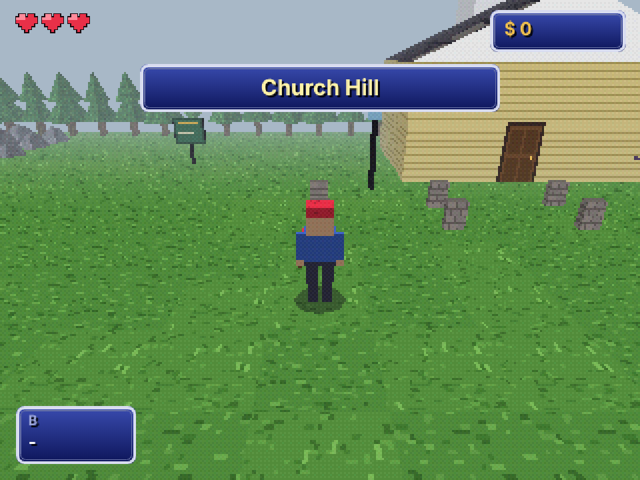
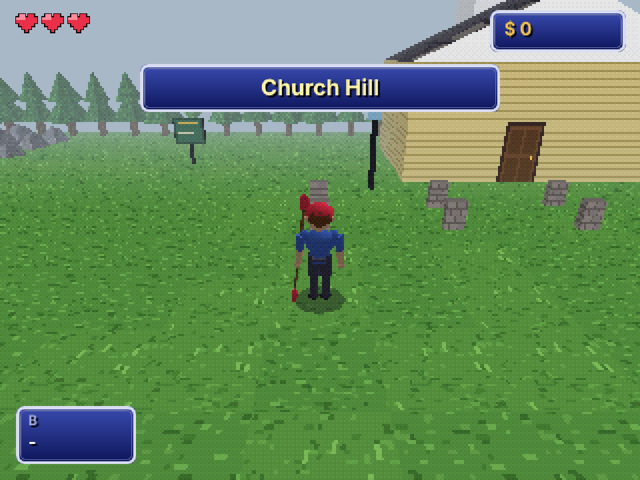
Rounder people: smooth-shaded bodies, round heads with faces, hair, caps and varied builds
Replaces the box people with low-poly lathed shapes: tapered torsos with
rounded shoulders, round heads with painted eyes, ears and a nose, caps with
brims, short, long or bun hair, skirts for some townspeople, sleeves, hands
and shoes. Light is worked out per vertex for smooth PS1-style shading.
The paddle is held upright now.

Claude-Session: https://claude.ai/code/session_01Eoe2yTJzU23vy12F62G5WF

Changed region(s): [[0.4375, 0.4062, 0.5625, 0.625]]

diff --git a/js/models.js b/js/models.js
@@ -4,13 +4,27 @@
 const MODELS={};
 function part(build,pivot,name){const m=new Mesh();build(m);return{mesh:m,pivot:pivot||[0,0,0],name:name||''};}
 function shadeHex(h,f){const c=rgb(h);return[c[0]*f,c[1]*f,c[2]*f];}
-function humanoid(o){const sk=rgb(o.skin||'#e8b890'),sh=rgb(o.shirt||'#3d63c8'),pa=rgb(o.pants||'#3c3c54'),ha=rgb(o.hat||'#6a4020'),hair=rgb(o.hair||'#3a2414');
-  const P=[part(m=>{m.box(-.3,.92,-.17,.3,1.62,.17,'white',sh);m.box(-.31,.92,-.18,.31,1.0,.18,'white',pa);},[0,0,0],'body'),
-    part(m=>{m.box(-.25,0,-.24,.25,.48,.24,{top:'white',side:'white',south:'face'},sk);m.box(-.27,.38,-.27,.27,.56,.26,'hair',o.capless?hair:ha);
-      if(!o.capless)m.box(-.27,.4,.05,.27,.46,.42,'hair',ha);else m.box(-.27,.12,-.27,.27,.4,-.12,'hair',hair);},[0,1.6,0],'head'),
-    part(m=>m.box(-.12,-.88,-.12,.12,0,.12,'white',pa),[-.15,.92,0],'legL'),part(m=>m.box(-.12,-.88,-.12,.12,0,.12,'white',pa),[.15,.92,0],'legR'),
-    part(m=>{m.box(-.09,-.55,-.09,.09,0,.09,'white',sh);m.box(-.08,-.7,-.08,.08,-.55,.08,'white',sk);},[-.39,1.55,0],'armL'),
-    part(m=>{m.box(-.09,-.55,-.09,.09,0,.09,'white',sh);m.box(-.08,-.7,-.08,.08,-.55,.08,'white',sk);if(o.paddle){m.box(-.04,-.75,-.05,.04,-.6,1.2,'wood');m.box(-.03,-.82,1.0,.03,-.52,1.55,'white',rgb(o.gold?'#f2c14e':'#e83048'));}},[.39,1.55,0],'armR')];
+function humanoid(o){const sk=rgb(o.skin||'#e8b890'),sh=rgb(o.shirt||'#3d63c8'),pa=rgb(o.pants||'#3c3c54'),ha=rgb(o.hat||'#6a4020'),hair=rgb(o.hair||'#3a2414'),shoe=rgb(o.shoe||'#2a2228'),N=10,w=o.wide||1;
+  const legCol=o.skirt?sk:pa;
+  const P=[
+    part(m=>{if(o.skirt)m.lathe(0,0,0,[[.5,.36],[.72,.31],[.95,.26],[1.08,.25]],N,'white',pa,w,.78,true);else m.lathe(0,0,0,[[.84,.2],[.97,.25],[1.08,.26]],N,'white',pa,w,.72,true);
+      m.lathe(0,0,0,[[1.0,.24],[1.12,.22],[1.28,.27],[1.44,.3],[1.54,.27],[1.62,.13]],N,'white',sh,w,.7,true);m.sphere(-.29*w,1.49,0,.115,8,5,'white',sh);m.sphere(.29*w,1.49,0,.115,8,5,'white',sh);m.lathe(0,0,0,[[1.56,.075],[1.7,.07]],8,'white',sk);},[0,0,0],'body'),
+    part(m=>{m.sphere(0,.27,0,.25,N,7,'white',sk,1.1);m.quad([-.2,.06,.235],[.2,.06,.235],[.2,.42,.235],[-.2,.42,.235],'eyes');
+      m.sphere(-.25,.25,0,.055,6,3,'white',sk);m.sphere(.25,.25,0,.055,6,3,'white',sk);m.sphere(0,.2,.25,.045,6,3,'white',[sk[0]*.92,sk[1]*.85,sk[2]*.8]);
+      const st=o.style||'short';
+      if(st=='long')m.sphere(0,.1,-.06,.27,N,5,'white',hair,1.45,1.04,.82,.45,1);
+      if(o.capless){m.sphere(0,.29,-.015,.272,N,5,'white',hair,1.1,1.04,1.04,.52,1);if(st=='bun')m.sphere(0,.5,-.2,.11,8,4,'white',hair);}
+      else{m.sphere(0,.29,-.01,.275,N,5,'white',ha,1.08,1.04,1.04,.55,1);m.lathe(0,.36,.08,[[0,.0],[.0,.22],[.05,.22]],N,'white',[ha[0]*.85,ha[1]*.85,ha[2]*.85],1,1.25,true);
+        m.sphere(0,.32,-.13,.2,N,5,'white',hair,1,1.15,.8);}},[0,1.6,0],'head'),
+    part(m=>{m.lathe(0,0,0,[[-.82,.075],[-.5,.095],[-.15,.12],[0,.12]],8,'white',legCol);m.sphere(0,-.84,.05,.11,8,4,'white',shoe,.6,1,1.55,.5,1);},[-.13,.92,0],'legL'),
+    part(m=>{m.lathe(0,0,0,[[-.82,.075],[-.5,.095],[-.15,.12],[0,.12]],8,'white',legCol);m.sphere(0,-.84,.05,.11,8,4,'white',shoe,.6,1,1.55,.5,1);},[.13,.92,0],'legR'),
+    part(m=>{m.lathe(0,0,0,[[-.32,.085],[-.08,.1],[0,.09]],8,'white',sh,1,1,true);m.lathe(0,0,0,[[-.62,.06],[-.32,.072]],8,'white',sk);m.sphere(0,-.67,0,.075,8,4,'white',sk);},[-.37*w,1.5,0],'armL'),
+    part(m=>{m.lathe(0,0,0,[[-.32,.085],[-.08,.1],[0,.09]],8,'white',sh,1,1,true);m.lathe(0,0,0,[[-.62,.06],[-.32,.072]],8,'white',sk);m.sphere(0,-.67,0,.075,8,4,'white',sk);
+      },[.37*w,1.5,0],'armR')];
+  if(o.paddle){const arm=P[5].mesh,c=rgb(o.gold?'#f2c14e':'#e83048');arm.pos.length=0;arm.uv.length=0;arm.col.length=0;
+    arm.lathe(0,0,0,[[-.32,.085],[-.08,.1],[0,.09]],8,'white',sh,1,1,true);arm.lathe(0,0,0,[[-.62,.06],[-.32,.072]],8,'white',sk);arm.sphere(0,-.67,0,.075,8,4,'white',sk);
+    const pd=new Mesh();pd.lathe(0,0,0,[[-.5,.03],[1.35,.03]],6,'wood');pd.sphere(0,1.55,0,.24,8,5,'white',c,1,.5,.2);pd.sphere(0,-.66,0,.15,8,4,'white',c,1,.45,.2);
+    for(let i=0;i<pd.pos.length;i+=3){const y=pd.pos[i+1],z=pd.pos[i+2];pd.pos[i+1]=y*.6-z*.8-.67;pd.pos[i+2]=y*.8+z*.6;}arm.add(pd);}
   return P;}
 function enemyModel(t){const P=[];
   if(t=='rat'){P.push(part(m=>{m.box(-.26,.05,-.42,.26,.42,.36,'white',rgb('#7a7480'));m.box(-.18,.1,.3,.18,.36,.62,{top:'white',side:'white',south:'face'},rgb('#8a8490'));m.box(-.2,.36,.36,-.08,.5,.46,'white',rgb('#e8a0a8'));m.box(.08,.36,.36,.2,.5,.46,'white',rgb('#e8a0a8'));},[0,0,0],'body'),

diff --git a/js/render.js b/js/render.js
@@ -100,18 +100,18 @@ function render(fade){const env=envLook();gl.bindFramebuffer(gl.FRAMEBUFFER,fbo)
   gl.bindVertexArray(quadVAO);gl.drawArrays(gl.TRIANGLES,0,6);gl.bindVertexArray(null);}
 function shadowAt(x,z,s){const sh=getModel('shadow',()=>propModel('shadow'));gl.enable(gl.BLEND);gl.blendFunc(gl.SRC_ALPHA,gl.ONE_MINUS_SRC_ALPHA);gl.uniform1f(U.uAlpha,.4);gl.depthMask(false);
   drawModel(sh,M4.mul(M4.tr(x,0,z),M4.sc(s||1)));gl.uniform1f(U.uAlpha,1);gl.depthMask(true);gl.disable(gl.BLEND);}
-function humanPose(walk,moving,extra){const s=moving?Math.sin(walk)*.7:0;return Object.assign({legL:{x:s},legR:{x:-s},armL:{x:-s*.8},armR:{x:s*.8},body:{t:[0,moving?Math.abs(Math.cos(walk))*.06:0,0]}},extra||{});}
+function humanPose(walk,moving,extra){const s=moving?Math.sin(walk)*.7:0;return Object.assign({legL:{x:s},legR:{x:-s},armL:{x:-s*.8,z:-.12},armR:{x:s*.8,z:.12},body:{t:[0,moving?Math.abs(Math.cos(walk))*.06:0,0]}},extra||{});}
 function npcModel(n){return getModel('npc:'+n.who+':'+n.tx+','+n.ty,()=>{const h=hash(n.tx,n.ty,n.who.length),skins=['#e8b890','#c08860','#8a5a3a','#f0c8a0'],pants=['#3c3c54','#5a4a3a','#2e3a5e','#4a4a4a'];
-  return humanoid({hat:n.hat?n.hat[0]:'#6a4020',shirt:n.shirt?n.shirt[0]:'#58a850',skin:skins[h%4],pants:pants[(h>>3)%4],hair:['#3a2414','#1a1410','#c89048','#7a4a24'][(h>>5)%4],capless:h%3==0});});}
+  const capless=h%3!=1,style=['short','long','bun','short','long'][(h>>7)%5];return humanoid({hat:n.hat?n.hat[0]:'#6a4020',shirt:n.shirt?n.shirt[0]:'#58a850',skin:skins[h%4],pants:pants[(h>>3)%4],hair:['#3a2414','#1a1410','#c89048','#7a4a24','#8a8a90'][(h>>5)%5],capless,style,skirt:style!='short'&&(h>>9)%2==0,wide:.92+((h>>11)%4)*.05});});}
 function drawEntities(){
   // the player
-  const P=getModel('player:'+(st.gold?1:0),()=>humanoid({hat:'#e83048',shirt:'#3d63c8',skin:'#e8b890',pants:'#3c3c54',paddle:true}));
+  const P=getModel('player:'+(st.gold?1:0),()=>humanoid({hat:'#e83048',shirt:'#3d63c8',skin:'#e8b890',pants:'#3c3c54',hair:'#6a3a1e',paddle:true}));
   if(mode!='title'&&(!(p.inv>0&&(frame>>2)&1)||deathT>0)){const sw=p.swing>0?(18-p.swing)/18:0,ex={};
     if(p.swing>0)ex.armR={x:-1.5,y:1.6-sw*3.4};if(p.raise>0){ex.armL={x:-2.6};p.raise--;}if(p.hold>0){ex.armL={x:-2.9};ex.armR={x:-2.9};}
     let base=M4.mul(M4.tr(p.x,0,p.z),M4.ry(p.yaw));if(deathT>0)base=M4.mul(base,M4.rx(-Math.min(1.5,(90-deathT)/20)));
     shadowAt(p.x,p.z);drawModel(P,base,humanPose(p.walk,p.moving,ex));
     if(st.items.lantern&&(st.eq=='lantern'||dark()>.3||lv.room)){const L=getModel('lanternProp',()=>[part(m=>{m.box(-.12,-.3,-.12,.12,0,.12,{top:'black',side:'glass'});m.box(-.03,0,-.03,.03,.12,.03,'black');},[0,0,0])]);
-      const arm=p.raise>0||p.hold>0?M4.mul(M4.tr(-.39,1.55,0),M4.rx(-2.6)):M4.mul(M4.tr(-.39,1.55,0),M4.rx(p.moving?-Math.sin(p.walk)*.56:0));drawModel(L,M4.mul(M4.mul(base,arm),M4.tr(0,-.75,0)),null,{tint:[1.4,1.3,1.1]});}
+      const arm=p.raise>0||p.hold>0?M4.mul(M4.tr(-.37,1.5,0),M4.rx(-2.6)):M4.mul(M4.tr(-.37,1.5,0),M4.rx(p.moving?-Math.sin(p.walk)*.56:0));drawModel(L,M4.mul(M4.mul(base,arm),M4.tr(0,-.75,0)),null,{tint:[1.4,1.3,1.1]});}
     if(p.hold>0&&p.holdIc){const k=p.holdIc=='keystone'?'keystone':p.holdIc=='key'?'key':p.holdIc=='lantern'?'lanternProp':p.holdIc=='powder'?'bomb':'coin';
       const im=getModel(k,()=>propModel(k));if(im&&im.length)drawModel(im,M4.mul(M4.tr(p.x,2.6+Math.sin(frame*.1)*.08,p.z),M4.ry(frame*.05)));}}
   for(const n of npcs){shadowAt(n.x,n.z);drawModel(npcModel(n),M4.mul(M4.tr(n.x,0,n.z),M4.ry(n.yaw)),humanPose(n.walk,n.wander&&!(n.look>0),{}));

diff --git a/js/mesh.js b/js/mesh.js
@@ -5,7 +5,7 @@
 const TS=2;
 const CELLS=['grass','grass2','flowers','dirt','sand','cobble','sidewalk','steps','rails','planks','brick','brickwin','brickwin2','storefront','roof','stone',
   'stonewall','marble','column','white','door','doorlit','bark','leaves','leaves2','rock','fence','floor','qwall','rubble','sign','gold','glass','wood','black','clock',
-  'copper','chest','face','hair','shell','lock','crack','tin','clap','clap2','water','foam','keystone','paper','lampglow','sky'];
+  'copper','chest','face','eyes','hair','shell','lock','crack','tin','clap','clap2','water','foam','keystone','paper','lampglow','sky'];
 const CELL={};CELLS.forEach((n,i)=>CELL[n]=i);
 const ATLAS_N=16,ATLAS_PX=32;
 function cellUV(name){const i=CELL[name]==null?CELL.white:CELL[name],cx=i%ATLAS_N,cy=(i/ATLAS_N)|0,e=.5/(ATLAS_N*ATLAS_PX),s=1/ATLAS_N;
@@ -49,6 +49,17 @@ class Mesh{
       const [u0,v0,u1,v1]=cellUV(end||cell),k=col||[1,1,1],K=[k[0]*.8,k[1]*.8,k[2]*.8];this.tri([x0,y0,z0],[x0,y0,z1],[x0,yt,zm],[u0,v1],[u1,v1],[(u0+u1)/2,v0],K,K,K);this.tri([x1,y0,z1],[x1,y0,z0],[x1,yt,zm],[u0,v1],[u1,v1],[(u0+u1)/2,v0],K,K,K);}
     else{const xm=(x0+x1)/2;this.quad([x1,y0,z1],[x1,y0,z0],[xm,yt,z0],[xm,yt,z1],cell,col,.85);this.quad([x0,y0,z0],[x0,y0,z1],[xm,yt,z1],[xm,yt,z0],cell,col,.7);
       const [u0,v0,u1,v1]=cellUV(end||cell),k=col||[1,1,1],K=[k[0]*.9,k[1]*.9,k[2]*.9];this.tri([x0,y0,z1],[x1,y0,z1],[xm,yt,z1],[u0,v1],[u1,v1],[(u0+u1)/2,v0],K,K,K);this.tri([x1,y0,z0],[x0,y0,z0],[xm,yt,z0],[u0,v1],[u1,v1],[(u0+u1)/2,v0],K,K,K);}}
+  // a smooth round shape spun around a vertical axis: prof is [[y,r],...] from bottom to top.
+  // Light is worked out per vertex, so it shades smoothly like Gouraud-lit PS1 models.
+  lathe(cx,cy,cz,prof,n,cell,col,sx,sz,cap){sx=sx||1;sz=sz||1;const [u0,v0,u1,v1]=cellUV(cell),k=col||[1,1,1],LX=-.35,LY=.8,LZ=.5,ll=Math.hypot(LX,LY,LZ);
+    const V=(i,j)=>{const [y,r]=prof[i],a=j/n*6.283,ca=Math.cos(a),sa=Math.sin(a);const y0=prof[Math.max(0,i-1)][0],y1=prof[Math.min(prof.length-1,i+1)][0],r0=prof[Math.max(0,i-1)][1],r1=prof[Math.min(prof.length-1,i+1)][1];
+      let ny=-(r1-r0),nh=(y1-y0)||.001;const l=Math.hypot(ny,nh);ny/=l;nh/=l;const nx=ca*nh,nz=sa*nh,d=Math.max(0,(nx*LX+ny*LY+nz*LZ)/ll),f=.5+.5*d;
+      return{p:[cx+ca*r*sx,cy+y,cz+sa*r*sz],c:[k[0]*f,k[1]*f,k[2]*f]};};
+    for(let i=0;i<prof.length-1;i++)for(let j=0;j<n;j++){const a=V(i,j),b=V(i,j+1),c=V(i+1,j+1),d=V(i+1,j);
+      this.tri(a.p,c.p,b.p,[u0,v1],[u1,v0],[u1,v1],a.c,c.c,b.c);this.tri(a.p,d.p,c.p,[u0,v1],[u0,v0],[u1,v0],a.c,d.c,c.c);}
+    if(cap){const t=prof[prof.length-1];if(t[1]>.001)this.disc(cx,cy+t[0],cz,t[1]*Math.max(sx,sz),n,cell,[k[0]*.95,k[1]*.95,k[2]*.95]);const b=prof[0];if(b[1]>.001)this.disc(cx,cy+b[0],cz,b[1]*Math.max(sx,sz),n,cell,[k[0]*.5,k[1]*.5,k[2]*.5],true);}}
+  sphere(cx,cy,cz,r,n,rings,cell,col,sy,sx,sz,from,to){const pr=[];from=from==null?0:from;to=to==null?1:to;for(let i=0;i<=rings;i++){const t=from+(to-from)*i/rings,a=-Math.PI/2+t*Math.PI;pr.push([Math.sin(a)*r*(sy||1),Math.cos(a)*r]);}
+    this.lathe(cx,cy,cz,pr,n,cell,col,sx,sz);}
   add(m){this.pos.push(...m.pos);this.uv.push(...m.uv);this.col.push(...m.col);return this;}
 }
 const hash=(a,b,c)=>{let h=(a*374761393+b*668265263+(c||0)*2147483647)|0;h=(h^(h>>>13))*1274126177|0;return((h^(h>>>16))>>>0);};

diff --git a/js/tex.js b/js/tex.js
@@ -50,6 +50,8 @@ function makeAtlas(){
     copper(x,y){R(x,y,P,P,'#6aa08e');noise(x,y,['#7ab8a2','#4e8a78','#8acab2'],120);},
     chest(x,y){R(x,y,P,P,'#6a4220');R(x,y+12,P,3,'#d8a830');R(x+13,y+10,6,8,'#d8a830');R(x+15,y+13,2,3,'#3a2410');for(let i=0;i<P;i+=8)R(x+i,y,1,P,'#4a2c14');},
     face(x,y){R(x,y,P,P,'#e8b890');R(x+7,y+12,5,6,'#1a1423');R(x+20,y+12,5,6,'#1a1423');R(x+8,y+13,2,2,'#ffffff');R(x+21,y+13,2,2,'#ffffff');R(x+12,y+23,8,2,'#a85a48');R(x+5,y+19,4,2,'#f0a088');R(x+23,y+19,4,2,'#f0a088');},
+    eyes(x,y){g.clearRect(x,y,P,P);R(x+5,y+7,8,2,'#3a2414');R(x+19,y+7,8,2,'#3a2414');R(x+6,y+11,7,9,'#ffffff');R(x+19,y+11,7,9,'#ffffff');R(x+8,y+12,5,8,'#2a1a14');R(x+19,y+12,5,8,'#2a1a14');
+      R(x+9,y+13,2,2,'#ffffff');R(x+20,y+13,2,2,'#ffffff');R(x+12,y+26,8,1,'#b0605a');R(x+11,y+25,1,1,'#b0605a');R(x+20,y+25,1,1,'#b0605a');},
     hair(x,y){R(x,y,P,P,'#ffffff');noise(x,y,['#dddddd','#c8c8c8'],80);},
     shell(x,y){R(x,y,P,P,'#3a6a34');for(let i=0;i<2;i++)for(let j=0;j<2;j++){R(x+i*16+2,y+j*16+2,12,12,'#5a8a44');R(x+i*16+4,y+j*16+4,8,8,'#6e9e52');}},
     lock(x,y){D.wood(x,y);R(x+10,y+10,12,12,'#d8a830');R(x+14,y+14,4,5,'#1a1423');R(x+12,y+5,8,6,'#9a9aa4');R(x+14,y+7,4,4,'#5e3a1e');},

diff --git a/sw.js b/sw.js
@@ -1,5 +1,5 @@
 // Offline cache. Bump VERSION when files change.
-const VERSION='rcq3d-v1';
+const VERSION='rcq3d-v2';
 const FILES=['./','index.html','js/data.js','js/mesh.js','js/tex.js','js/level.js','js/models.js','js/audio.js','js/game.js','js/render.js','js/hud.js','js/input.js','js/main.js','manifest.webmanifest','icon-192.png','icon-512.png','icon-180.png'];
 self.addEventListener('install',e=>{e.waitUntil(caches.open(VERSION).then(c=>c.addAll(FILES)));self.skipWaiting();});
 self.addEventListener('activate',e=>{e.waitUntil(caches.keys().then(ks=>Promise.all(ks.filter(k=>k!==VERSION).map(k=>caches.delete(k)))));self.clients.claim();});
